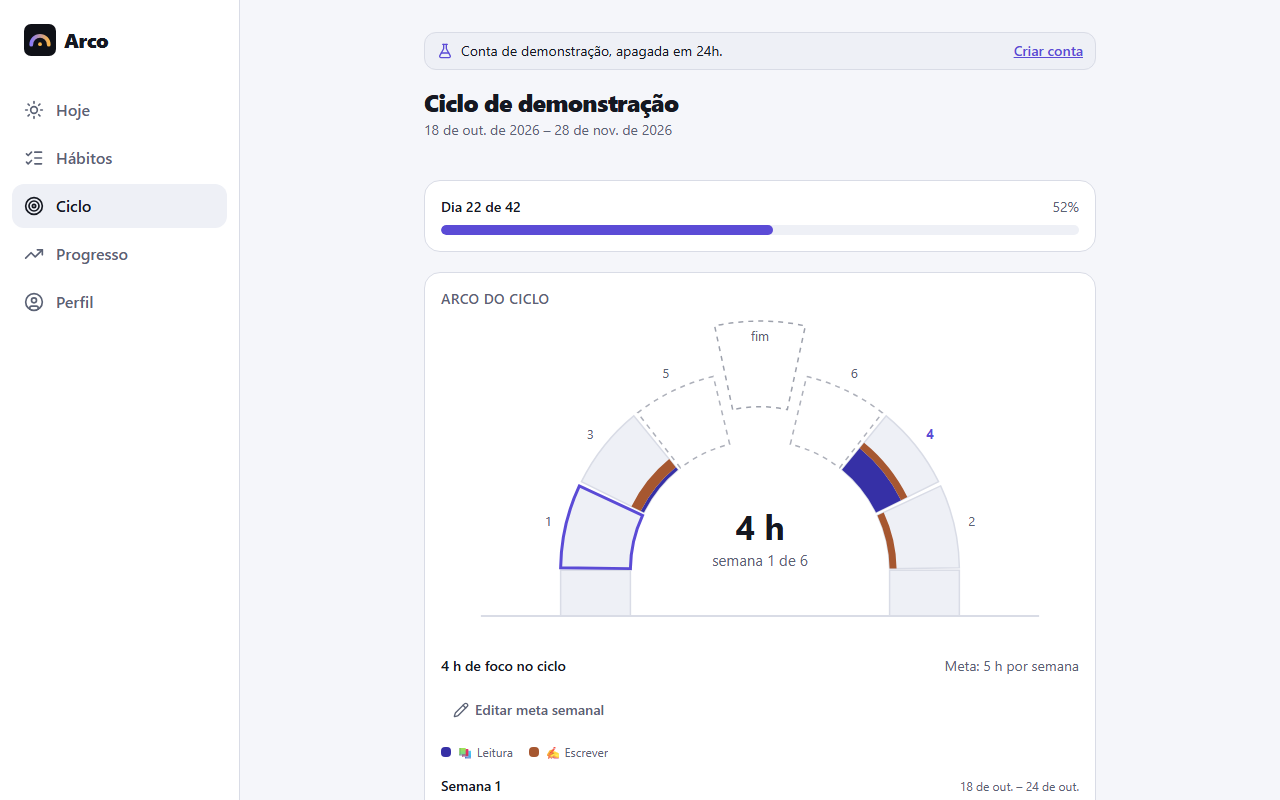
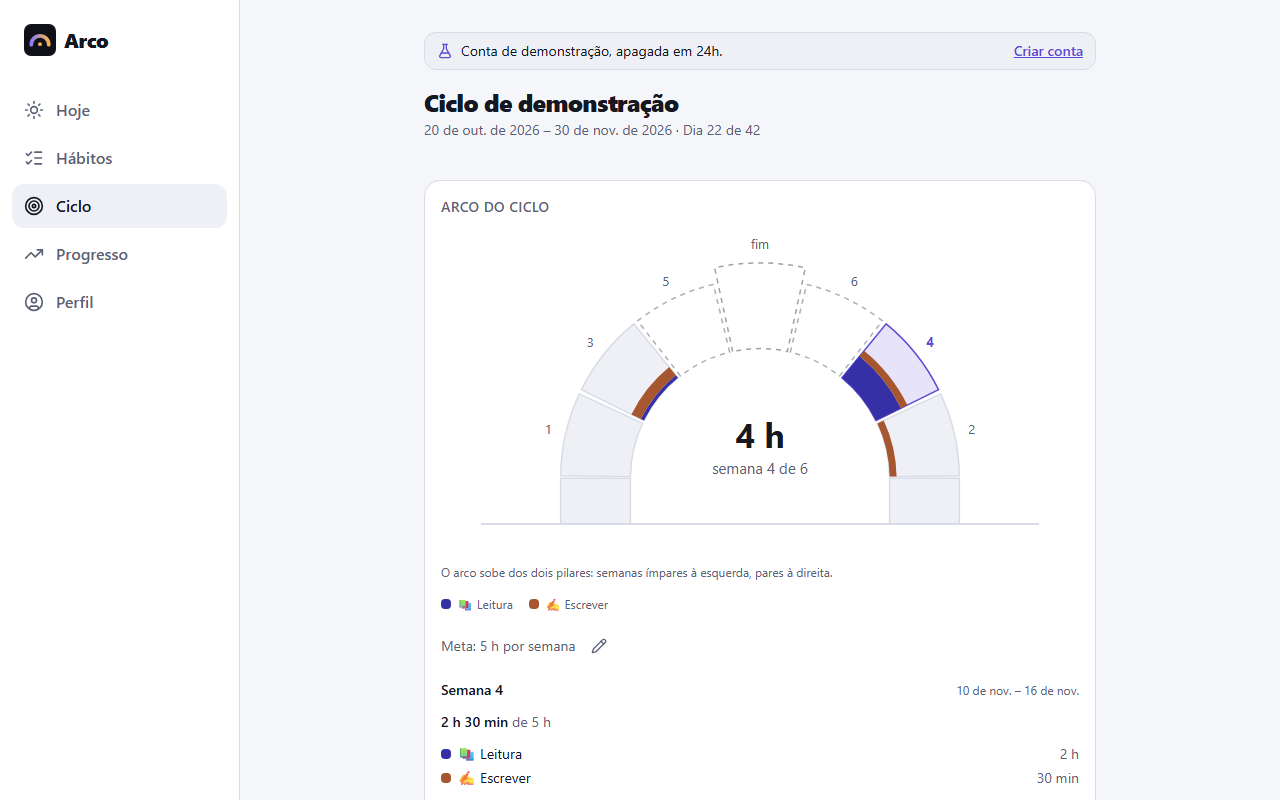
Arco do ciclo: semana atual correta, hierarquia do painel e gráfico de dias
- currentWeek em features/arch/weeks.ts (diffDays estava com os argumentos invertidos: a semana saía sempre 1)
- cartão de progresso removido; "Dia X de Y" vai para o subtítulo
- painel: dica da ordem das pedras, legenda, meta com edição inline; sem total repetido
- StoneDays com largura máxima e escala que também cresce
- pedras sem o contorno de foco do navegador; chips de semana só no celular
- E2E de ciclo em andamento; capturas do ciclo atualizadas

diff --git a/web/src/features/arch/ArchPanel.tsx b/web/src/features/arch/ArchPanel.tsx
@@ -7,13 +7,14 @@ import type { ArchStone, Cycle, CycleArch } from '../../api/types'
 import { Button } from '../../components/ui/Button'
 import { Input } from '../../components/ui/Input'
 import { EmptyState, ErrorState, Spinner } from '../../components/ui/States'
-import { diffDays, formatDate, localToday } from '../../lib/dates'
+import { formatDate, localToday } from '../../lib/dates'
 import { formatDuration } from '../../lib/format'
 import { habitColor } from '../../lib/habitColor'
 import { queryKeys } from '../../lib/queryKeys'
 import { useAppMutation } from '../../lib/useAppMutation'
 import { Arch } from './Arch'
 import { StoneDays } from './StoneDays'
+import { currentWeek } from './weeks'
 
 const MIN_HOURS = 1
 const MAX_HOURS = 56
@@ -27,8 +28,7 @@ interface ArchPanelProps {
 /** Semana pré-selecionada: a de hoje (limitada às pontas) ou, se encerrado, a última. */
 function defaultWeek(arch: CycleArch, today: string): number {
   if (arch.closed) return arch.weeks
-  const w = Math.floor(diffDays(today, arch.startDate) / 7) + 1
-  return Math.min(Math.max(w, 1), arch.weeks)
+  return currentWeek(arch, today)
 }
 
 /** Arco do ciclo: pedras por semana, legenda dos hábitos, detalhe da semana e dos dias. */
@@ -52,12 +52,7 @@ export function ArchPanel({ cycleId, cycle }: ArchPanelProps) {
     <div className="flex flex-col gap-4">
       <Arch arch={arch} selectedWeek={week} onSelect={setPicked} today={today} />
 
-      <div className="flex flex-wrap items-baseline justify-between gap-x-3 gap-y-1 text-sm">
-        <span className="font-semibold">{t('panel.totalInCycle', { duration: formatDuration(arch.totalMinutes) })}</span>
-        <span className="text-muted">{t('panel.goalPerWeek', { duration: formatDuration(arch.weeklyTargetMinutes) })}</span>
-      </div>
-
-      {canEdit && <EditGoal cycle={cycle} current={arch.weeklyTargetMinutes} />}
+      {arch.layout !== 'Row' && arch.weeks >= 2 && <p className="text-xs text-muted">{t('panel.orderHint')}</p>}
 
       {arch.habits.length === 0 ? (
         <EmptyState
@@ -66,25 +61,26 @@ export function ArchPanel({ cycleId, cycle }: ArchPanelProps) {
           description={t('panel.emptyDescription')}
         />
       ) : (
-        <>
-          <ul className="flex flex-wrap gap-x-4 gap-y-1.5" aria-label={t('panel.legend')}>
-            {arch.habits.map((h) => (
-              <li key={h.habitId} className="flex min-w-0 items-center gap-1.5 text-xs text-muted">
-                <span
-                  className="size-2.5 shrink-0 rounded-sm"
-                  style={{ backgroundColor: habitColor(h.habitId) }}
-                  aria-hidden
-                />
-                <span className="truncate">
-                  {h.emoji ? `${h.emoji} ` : ''}
-                  {h.name}
-                </span>
-              </li>
-            ))}
-          </ul>
-          {stone && <WeekDetail stone={stone} arch={arch} today={today} />}
-        </>
+        <ul className="flex flex-wrap gap-x-4 gap-y-1.5" aria-label={t('panel.legend')}>
+          {arch.habits.map((h) => (
+            <li key={h.habitId} className="flex min-w-0 items-center gap-1.5 text-xs text-muted">
+              <span
+                className="size-2.5 shrink-0 rounded-sm"
+                style={{ backgroundColor: habitColor(h.habitId) }}
+                aria-hidden
+              />
+              <span className="truncate">
+                {h.emoji ? `${h.emoji} ` : ''}
+                {h.name}
+              </span>
+            </li>
+          ))}
+        </ul>
       )}
+
+      <GoalRow cycle={canEdit ? cycle : undefined} minutes={arch.weeklyTargetMinutes} />
+
+      {arch.habits.length > 0 && stone && <WeekDetail stone={stone} arch={arch} today={today} />}
     </div>
   )
 }
@@ -135,14 +131,14 @@ function WeekDetail({ stone, arch, today }: { stone: ArchStone; arch: CycleArch;
   )
 }
 
-function EditGoal({ cycle, current }: { cycle: Cycle; current: number }) {
+function GoalRow({ cycle, minutes }: { cycle?: Cycle; minutes: number }) {
   const { t } = useTranslation(['arch', 'common'])
   const [editing, setEditing] = useState(false)
   const [hours, setHours] = useState('')
   const [error, setError] = useState<string | null>(null)
   const save = useAppMutation(
-    (minutes: number) =>
-      cyclesApi.update(cycle.id, { name: cycle.name, endDate: cycle.endDate, weeklyFocusMinutes: minutes }),
+    (value: number) =>
+      cyclesApi.update(cycle!.id, { name: cycle!.name, endDate: cycle!.endDate, weeklyFocusMinutes: value }),
     {
       successMessage: t('panel.goalUpdated'),
       onSuccess: () => setEditing(false),
@@ -150,7 +146,7 @@ function EditGoal({ cycle, current }: { cycle: Cycle; current: number }) {
   )
 
   function open() {
-    setHours(String(Math.round((current / 60) * 100) / 100))
+    setHours(String(Math.round((minutes / 60) * 100) / 100))
     setError(null)
     setEditing(true)
   }
@@ -165,45 +161,50 @@ function EditGoal({ cycle, current }: { cycle: Cycle; current: number }) {
     save.mutate(Math.round(h * 60))
   }
 
-  if (!editing) {
-    return (
-      <div>
-        <Button variant="ghost" size="sm" onClick={open}>
+  const row = (
+    <div className="flex items-center gap-1 text-sm text-muted">
+      <span>{t('panel.goalPerWeek', { duration: formatDuration(minutes) })}</span>
+      {cycle && !editing && (
+        <Button variant="ghost" size="sm" onClick={open} aria-label={t('panel.editGoal')}>
           <Pencil className="size-4" aria-hidden />
-          {t('panel.editGoal')}
         </Button>
-      </div>
-    )
-  }
+      )}
+    </div>
+  )
+
+  if (!cycle || !editing) return row
 
   return (
-    <form
-      className="flex flex-col gap-3 rounded-2xl border border-border bg-surface-2/50 p-3"
-      onSubmit={(e) => {
-        e.preventDefault()
-        submit()
-      }}
-    >
-      <Input
-        label={t('panel.goalLabel')}
-        type="number"
-        inputMode="decimal"
-        min={MIN_HOURS}
-        max={MAX_HOURS}
-        step="0.5"
-        value={hours}
-        onChange={(e) => setHours(e.target.value)}
-        error={error}
-        hint={t('panel.hoursHint', { min: MIN_HOURS, max: MAX_HOURS })}
-      />
-      <div className="flex gap-2">
-        <Button type="button" variant="secondary" block onClick={() => setEditing(false)}>
-          {t('common:cancel')}
-        </Button>
-        <Button type="submit" block loading={save.isPending}>
-          {t('common:save')}
-        </Button>
-      </div>
-    </form>
+    <div className="flex flex-col gap-2">
+      {row}
+      <form
+        className="flex flex-col gap-3 rounded-2xl border border-border bg-surface-2/50 p-3"
+        onSubmit={(e) => {
+          e.preventDefault()
+          submit()
+        }}
+      >
+        <Input
+          label={t('panel.goalLabel')}
+          type="number"
+          inputMode="decimal"
+          min={MIN_HOURS}
+          max={MAX_HOURS}
+          step="0.5"
+          value={hours}
+          onChange={(e) => setHours(e.target.value)}
+          error={error}
+          hint={t('panel.hoursHint', { min: MIN_HOURS, max: MAX_HOURS })}
+        />
+        <div className="flex gap-2">
+          <Button type="button" variant="secondary" block onClick={() => setEditing(false)}>
+            {t('common:cancel')}
+          </Button>
+          <Button type="submit" block loading={save.isPending}>
+            {t('common:save')}
+          </Button>
+        </div>
+      </form>
+    </div>
   )
 }

diff --git a/web/src/features/arch/Arch.tsx b/web/src/features/arch/Arch.tsx
@@ -2,9 +2,10 @@ import { useMemo } from 'react'
 import type { KeyboardEvent } from 'react'
 import { useTranslation } from 'react-i18next'
 import type { ArchStone, CycleArch } from '../../api/types'
-import { diffDays, localToday } from '../../lib/dates'
+import { localToday } from '../../lib/dates'
 import { formatDuration } from '../../lib/format'
 import { habitColor } from '../../lib/habitColor'
+import { currentWeek } from './weeks'
 import {
   ARCH_VIEWBOX,
   CX,
@@ -48,12 +49,6 @@ function stoneState(stone: ArchStone, today: string, closed: boolean): StoneStat
   if (stone.from > today) return 'future'
   if (stone.to < today) return 'done'
   return 'now'
-}
-
-/** Semana (1..weeks) em que "hoje" cai; limitada às pontas do ciclo. */
-function currentWeek(arch: CycleArch, today: string): number {
-  const w = Math.floor(diffDays(today, arch.startDate) / 7) + 1
-  return Math.min(Math.max(w, 1), arch.weeks)
 }
 
 /** Área de toque da pedra: o setor alongado até o número da semana (e um pouco para dentro). */
@@ -151,7 +146,7 @@ export function Arch({ arch, selectedWeek, onSelect, small = false, today: today
   const chips = showChips ? (
     <div
       aria-hidden="true"
-      className="-mx-1 mt-2 flex gap-1.5 overflow-x-auto px-1 pb-1"
+      className="-mx-1 mt-2 flex sm:hidden gap-1.5 overflow-x-auto px-1 pb-1"
     >
       {stones.map((stone) => {
         const state = stoneState(stone, today, arch.closed)
@@ -178,7 +173,7 @@ export function Arch({ arch, selectedWeek, onSelect, small = false, today: today
     const rowWidth = ROW_PAD * 2 + (arch.weeks + 1) * (ROW_STONE_W + ROW_GAP) - ROW_GAP
     const rowSvg = (
       <svg
-        className={svgClass}
+        className={`${svgClass} [&_g]:outline-none`}
         style={small ? undefined : { minWidth: Math.round(rowWidth * ROW_MIN_SCALE) }}
         viewBox={rowViewBox(arch.weeks)}
         role={svgRole}
@@ -283,7 +278,7 @@ export function Arch({ arch, selectedWeek, onSelect, small = false, today: today
   const [kx, ky] = keystoneLabelPos()
   const pillarW = THICKNESS
   const archSvg = (
-    <svg className={svgClass} viewBox={ARCH_VIEWBOX} role={svgRole} aria-label={svgLabel}>
+    <svg className={`${svgClass} [&_g]:outline-none`} viewBox={ARCH_VIEWBOX} role={svgRole} aria-label={svgLabel}>
       <rect
         x={CX - R2}
         y={CY}

diff --git a/web/e2e/cycle.spec.ts b/web/e2e/cycle.spec.ts
@@ -1,5 +1,5 @@
 import { expect, test, type Page } from '@playwright/test'
-import { pinLocale, register } from './helpers'
+import { createHabit, pinLocale, register } from './helpers'
 
 // Página /cycle: pedras do arco acessíveis, sem overflow horizontal e uma única ação de encerrar.
 // A faixa de chips de semana é aria-hidden/tabIndex=-1 (só toque): contamos as pedras por role/nome.
@@ -60,5 +60,30 @@ test.describe('página do ciclo', () => {
 
     const overflow = await page.evaluate(() => document.documentElement.scrollWidth - document.documentElement.clientWidth)
     expect(overflow).toBeLessThanOrEqual(0)
+  })
+
+  test('ciclo em andamento mostra a semana e o dia corretos', async ({ page }) => {
+    await pinLocale(page)
+    await register(page)
+    await createHabit(page, 'Hábito E2E')
+    await createCycle(page, 6, minusDays(await today(page), 21))
+    const habits = (await (await page.request.get('/api/habits')).json()) as Array<{ id: number }>
+    const res = await page.request.post('/api/focus-sessions', { data: { habitId: habits[0].id, minutes: 30 } })
+    expect(res.ok(), await res.text()).toBeTruthy()
+    await page.goto('/cycle')
+    await expect(page.getByRole('heading', { level: 1, name: 'Ciclo E2E' })).toBeVisible()
+
+    await expect(page.getByText('Dia 22 de 42')).toBeVisible()
+    await expect(page.locator('svg').getByText('semana 4 de 6')).toBeVisible()
+
+    const stone = page.getByRole('button', { name: /^Semana 4:/ })
+    await expect(stone).toHaveAttribute('aria-pressed', 'true')
+    await expect(stone).toHaveAccessibleName(/em andamento$/)
+    await expect(page.getByRole('heading', { name: 'Semana 4' })).toBeVisible()
+
+    const days = page.getByRole('img', { name: /Sessões de foco por dia/ })
+    const box = await days.boundingBox()
+    expect(box).not.toBeNull()
+    if (test.info().project.name === 'e2e') expect(box!.width).toBeLessThanOrEqual(400)
   })
 })

diff --git a/web/src/pages/CyclePage.tsx b/web/src/pages/CyclePage.tsx
@@ -7,7 +7,6 @@ import type { Cycle } from '../api/types'
 import { Button } from '../components/ui/Button'
 import { Card } from '../components/ui/Card'
 import { PageHeader } from '../components/ui/PageHeader'
-import { ProgressBar } from '../components/ui/ProgressBar'
 import { Skeleton } from '../components/ui/Skeleton'
 import { EmptyState, ErrorState, Spinner } from '../components/ui/States'
 import { CompleteCycleDialog } from '../features/cycle/CompleteCycleDialog'
@@ -69,15 +68,8 @@ function ActiveCycle({ cycle, today }: { cycle: Cycle; today: string }) {
     <>
       <PageHeader
         title={cycle.name}
-        subtitle={`${formatFullDate(cycle.startDate)} – ${formatFullDate(cycle.endDate)}`}
+        subtitle={`${formatFullDate(cycle.startDate)} – ${formatFullDate(cycle.endDate)} · ${t('dayOf', { day: cycle.dayNumber, total: cycle.totalDays })}`}
       />
-
-      <Card>
-        <p className="mb-2 text-sm font-semibold">
-          {t('dayOf', { day: cycle.dayNumber, total: cycle.totalDays })}
-        </p>
-        <ProgressBar value={cycle.dayNumber / Math.max(1, cycle.totalDays)} label={t('progress')} />
-      </Card>
 
       <Card>
         <h2 id="cycle-arch-title" className="mb-3 text-sm font-semibold uppercase tracking-wide text-muted">

diff --git a/web/src/features/arch/StoneDays.tsx b/web/src/features/arch/StoneDays.tsx
@@ -18,19 +18,20 @@ const BASE = 106
 const PX_PER_MIN = 0.3
 const GAP = 1.5
 const MAX_H = BASE - 8
+const MAX_SCALE = 3
 
 /** Sete colunas (dias da semana do ciclo); cada sessão de foco é um tijolo. */
 export function StoneDays({ stone, habits, today }: StoneDaysProps) {
   const { t } = useTranslation('arch')
   const names = useMemo(() => new Map(habits.map((h) => [h.habitId, h.name])), [habits])
 
-  // Reduz a escala se a coluna mais alta não couber.
+  // Ajusta a escala: reduz se a coluna mais alta não couber e amplia (até MAX_SCALE) se sobrar espaço.
   const scale = useMemo(() => {
     const tallest = Math.max(
       0,
       ...stone.days.map((d) => d.bricks.reduce((sum, b) => sum + Math.max(3, b.minutes * PX_PER_MIN) + GAP, 0)),
     )
-    return tallest > MAX_H ? MAX_H / tallest : 1
+    return tallest > 0 ? Math.min(MAX_H / tallest, MAX_SCALE) : 1
   }, [stone.days])
 
   const summary = stone.days
@@ -39,7 +40,7 @@ export function StoneDays({ stone, habits, today }: StoneDaysProps) {
 
   return (
     <svg
-      className="mt-1 block h-auto w-full"
+      className="mx-auto mt-1 block h-auto w-full max-w-sm"
       viewBox="0 0 300 132"
       role="img"
       aria-label={t('stoneDays.label', { week: stone.week, summary })}

diff --git a/web/src/i18n/locales/pt-BR/arch.ts b/web/src/i18n/locales/pt-BR/arch.ts
@@ -7,7 +7,7 @@ const ns = {
   sub: { closed: 'ciclo concluído', notStarted: 'ainda não começou', week: 'semana {{current}} de {{total}}' },
   end: 'fim',
   panel: {
-    totalInCycle: '{{duration}} de foco no ciclo',
+    orderHint: 'O arco sobe dos dois pilares: semanas ímpares à esquerda, pares à direita.',
     goalPerWeek: 'Meta: {{duration}} por semana',
     emptyTitle: 'Nenhuma sessão de foco ainda',
     emptyDescription: 'Use o cronômetro ou registre os minutos no check-in. Cada sessão vira um tijolo do arco.',

diff --git a/web/src/i18n/locales/en/arch.ts b/web/src/i18n/locales/en/arch.ts
@@ -7,7 +7,7 @@ export default {
   sub: { closed: 'cycle completed', notStarted: 'not started yet', week: 'week {{current}} of {{total}}' },
   end: 'end',
   panel: {
-    totalInCycle: '{{duration}} of focus in the cycle',
+    orderHint: 'The arch rises from both pillars: odd weeks on the left, even on the right.',
     goalPerWeek: 'Goal: {{duration}} per week',
     emptyTitle: 'No focus sessions yet',
     emptyDescription: 'Use the timer or log the minutes on the check-in. Each session becomes a brick of the arch.',

diff --git a/web/src/features/arch/weeks.ts b/web/src/features/arch/weeks.ts
@@ -1,0 +1,8 @@
+import type { CycleArch } from '../../api/types'
+import { diffDays } from '../../lib/dates'
+
+/** Semana (1..weeks) em que `today` cai, limitada às pontas. */
+export function currentWeek(arch: Pick<CycleArch, 'startDate' | 'weeks'>, today: string): number {
+  const w = Math.floor(diffDays(arch.startDate, today) / 7) + 1
+  return Math.min(Math.max(w, 1), arch.weeks)
+}

diff --git a/web/src/i18n/locales/en/pages.ts b/web/src/i18n/locales/en/pages.ts
@@ -56,7 +56,6 @@ const en: typeof ns = {
     title: 'Cycle',
     none: 'No active cycle',
     dayOf: 'Day {{day}} of {{total}}',
-    progress: 'Cycle progress',
     arch: 'Cycle arch',
     lastDay: 'Last day of the cycle',
     ended: 'The cycle has ended',

diff --git a/web/src/i18n/locales/pt-BR/pages.ts b/web/src/i18n/locales/pt-BR/pages.ts
@@ -54,7 +54,6 @@ const ns = {
     title: 'Ciclo',
     none: 'Nenhum ciclo ativo',
     dayOf: 'Dia {{day}} de {{total}}',
-    progress: 'Progresso do ciclo',
     arch: 'Arco do ciclo',
     lastDay: 'Último dia do ciclo',
     ended: 'O ciclo terminou',
